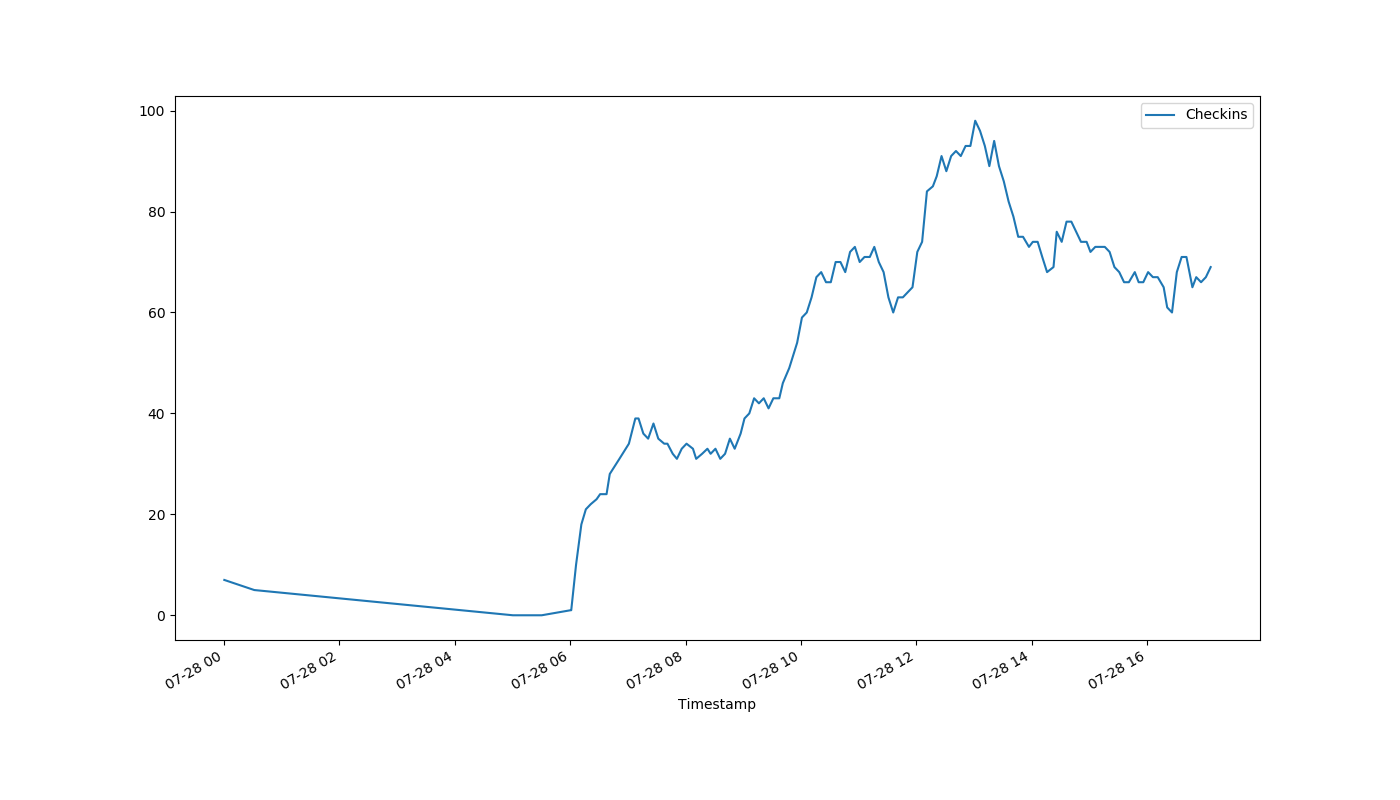
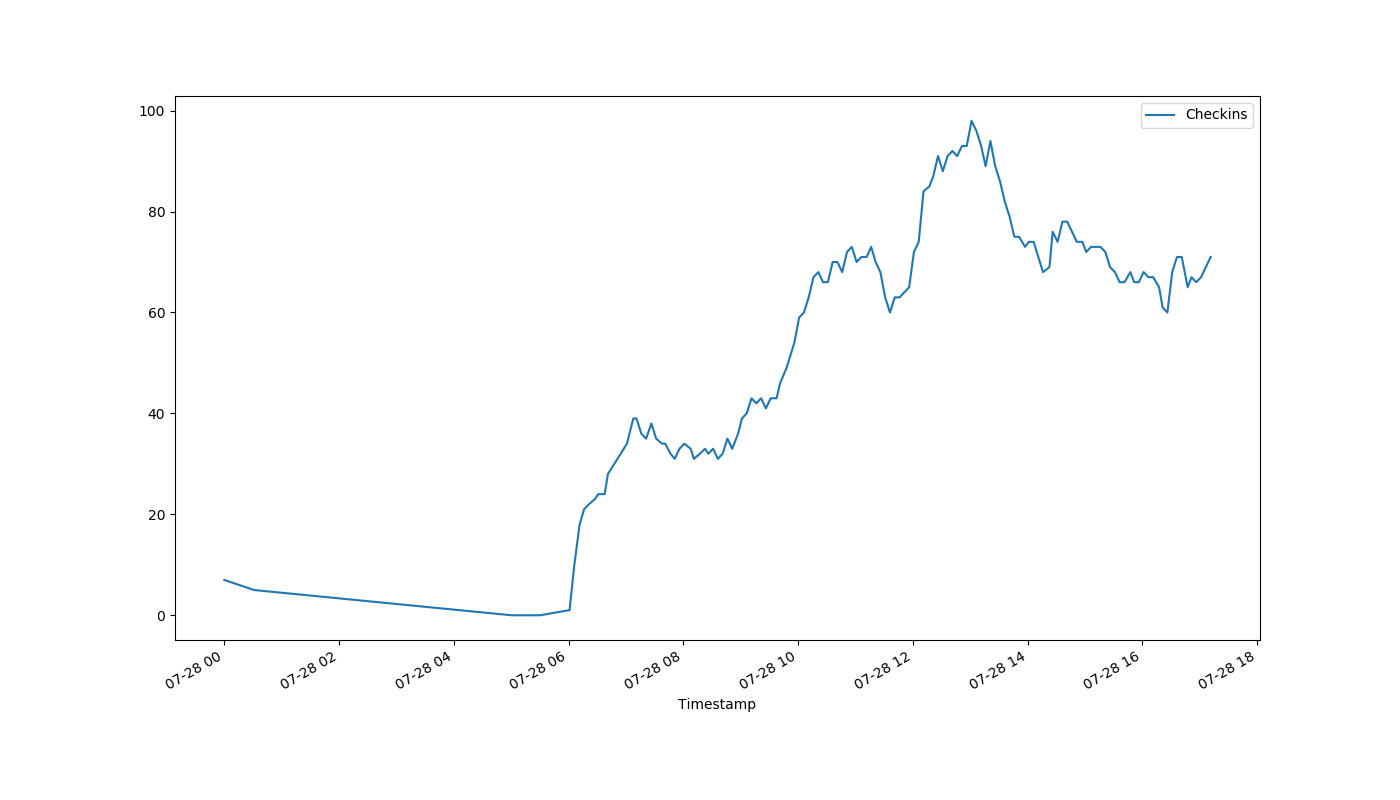
auto-Jul-28-17:12:24

diff --git a/index.html b/index.html
@@ -1,1 +1,1 @@
-<!DOCTYPE html><html><head><meta http-equiv="refresh" content="30"><link rel='stylesheet' href='holmcurrent.css'></head><body><p id='count'>69</p><div id='graph-wrap'><img id='graph' src='holmgraph-Jul-28.png'></div><p id='updated'>Last updated 17:07:13 / 17:06:14</p></body></html>
+<!DOCTYPE html><html><head><meta http-equiv="refresh" content="30"><link rel='stylesheet' href='holmcurrent.css'></head><body><p id='count'>71</p><div id='graph-wrap'><img id='graph' src='holmgraph-Jul-28.png'></div><p id='updated'>Last updated 17:12:13 / 17:11:16</p></body></html>
